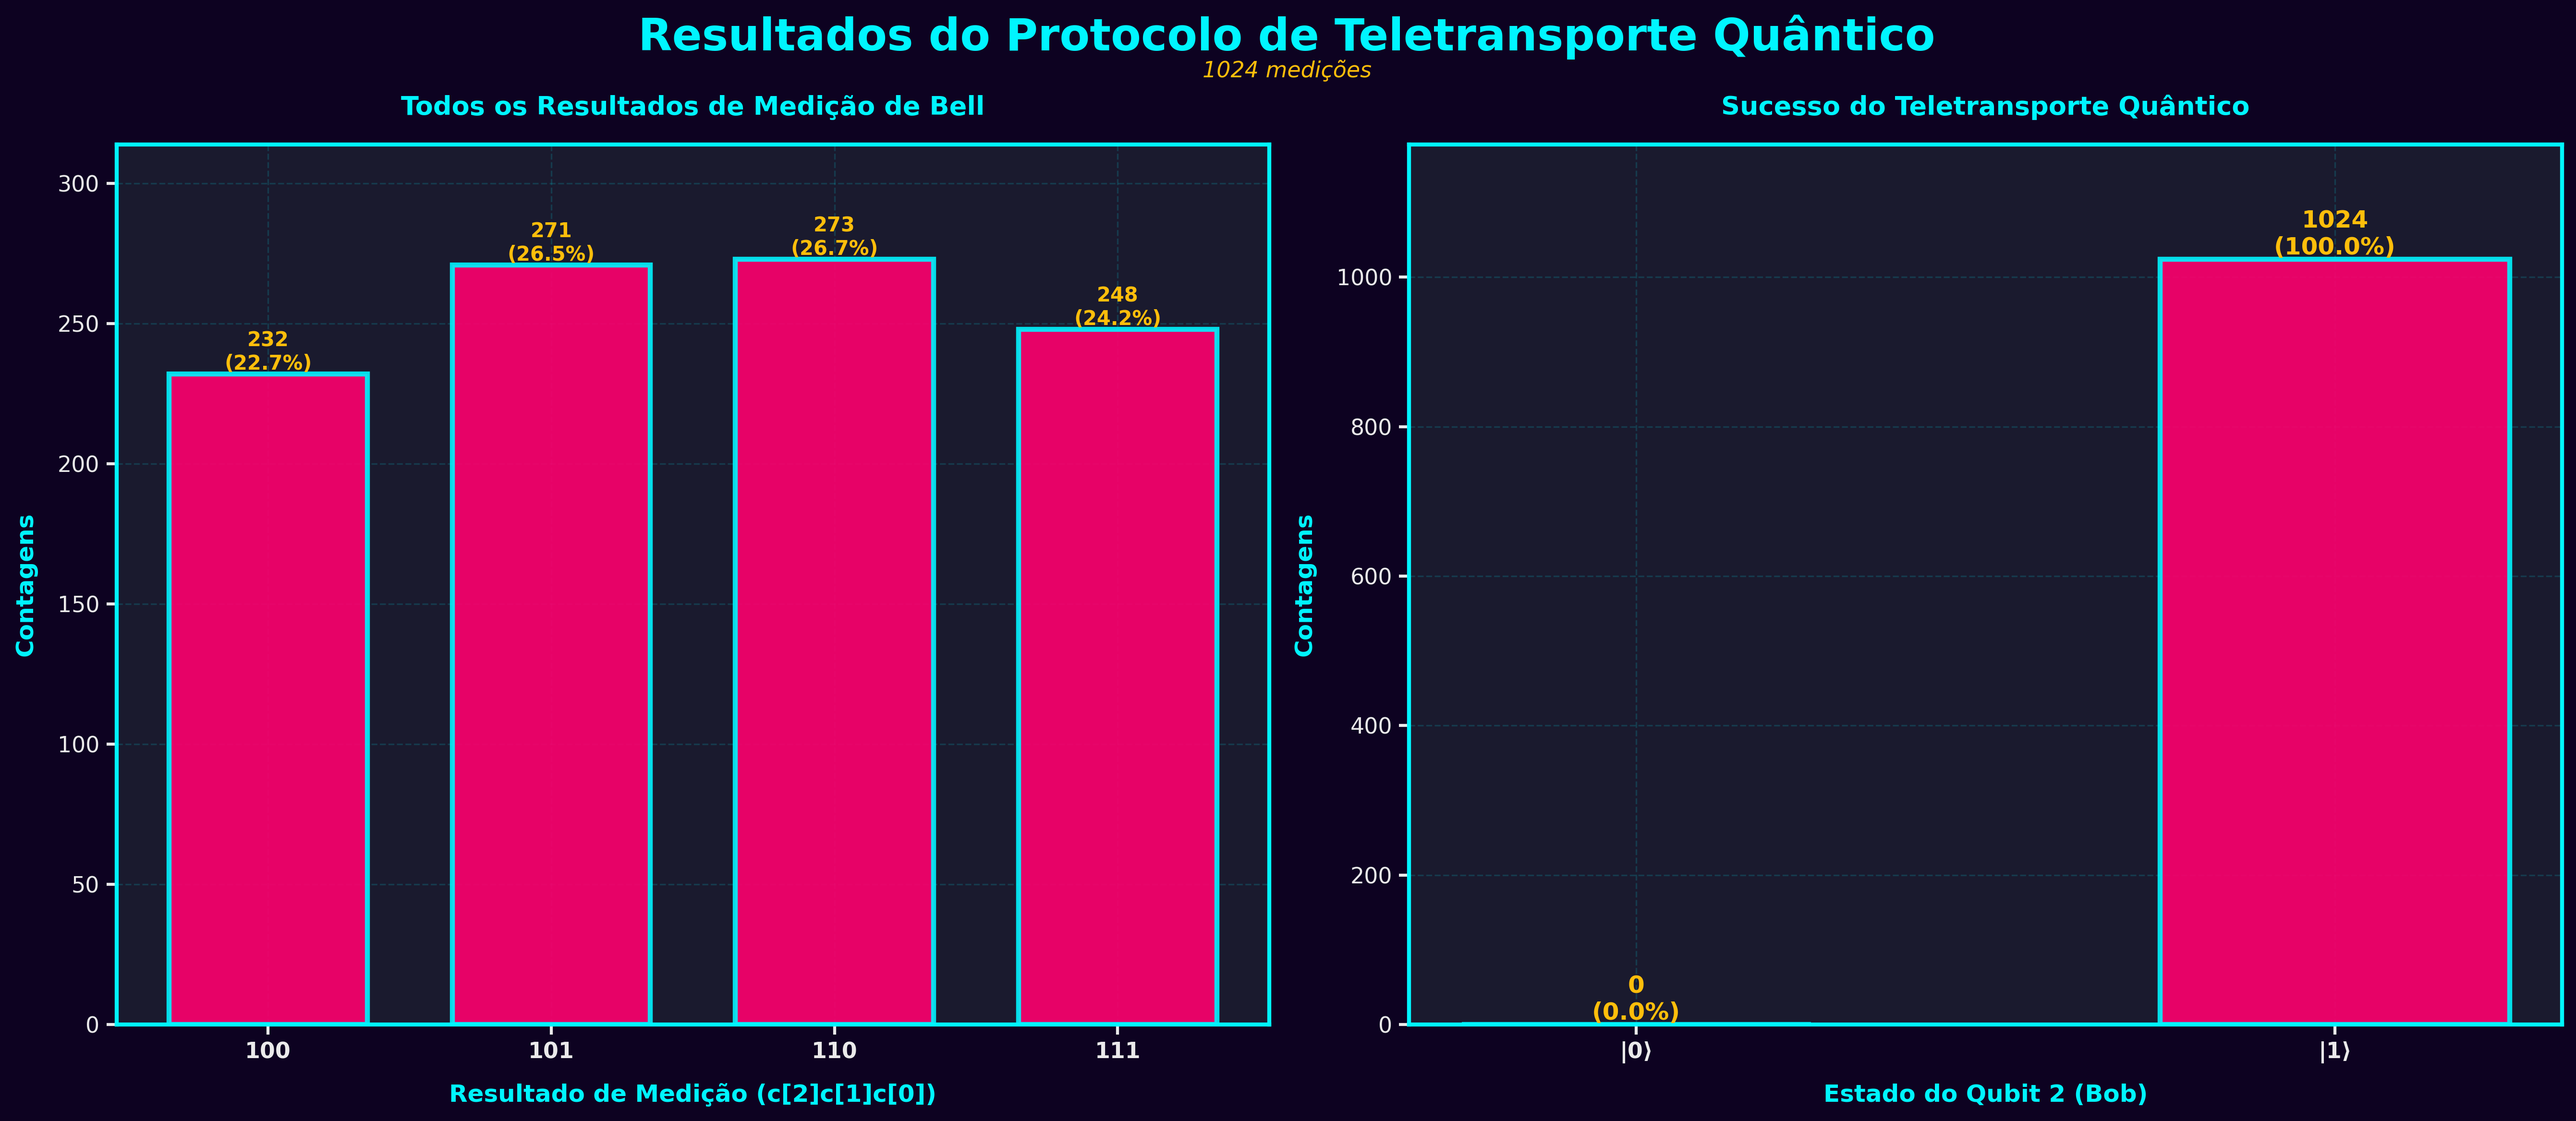
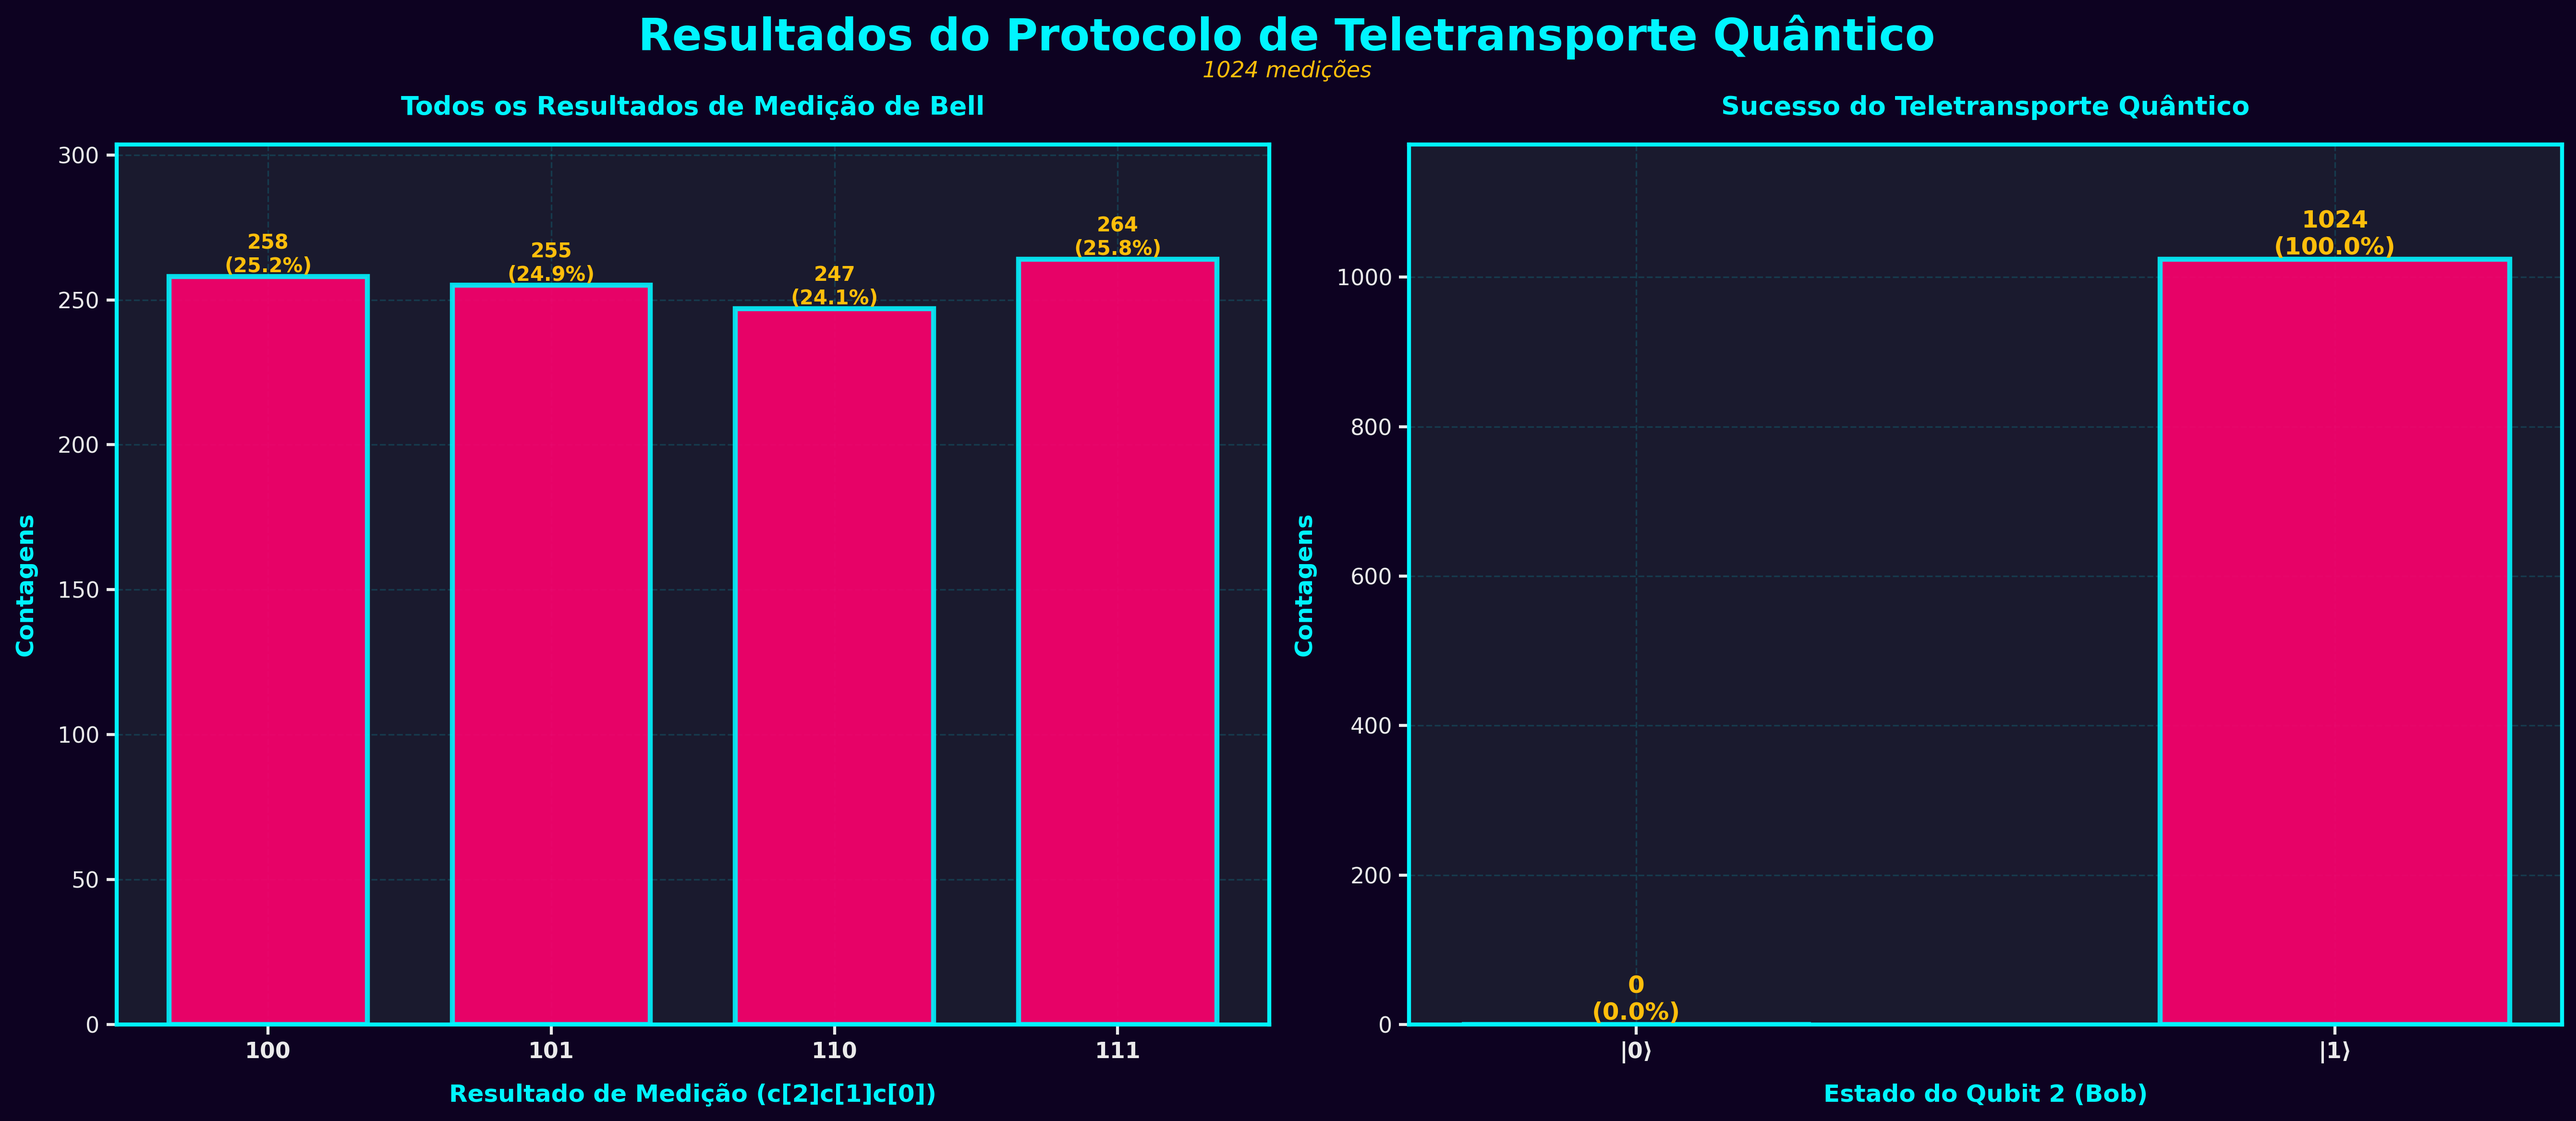
Ajusta textos dos gráficos para português e atualiza resultados

diff --git a/src/bell_states.py b/src/bell_states.py
@@ -150,11 +150,11 @@ def visualize_bell_states():
     gs = fig.add_gridspec(2, 2, hspace=0.35, wspace=0.3)
     
     # Main title
-    fig.text(0.5, 0.98, 'Bell States Measurement Results', 
+    fig.text(0.5, 0.98, 'Resultados das Medições dos Estados de Bell', 
              ha='center', va='top', fontsize=24, fontweight='bold',
              color=COLORS['highlight'])
     
-    fig.text(0.5, 0.94, '1024 measurement shots per state', 
+    fig.text(0.5, 0.94, '1024 medições por estado', 
              ha='center', va='top', fontsize=12,
              color=COLORS['secondary'], style='italic')
     
@@ -191,13 +191,13 @@ def visualize_bell_states():
                    color=COLORS['secondary'])
         
         # Styling
-        ax.set_xlabel('Measurement Outcome', fontsize=12, fontweight='bold',
+        ax.set_xlabel('Resultado da Medição', fontsize=12, fontweight='bold',
                      color=COLORS['highlight'], labelpad=10)
-        ax.set_ylabel('Counts', fontsize=12, fontweight='bold',
+        ax.set_ylabel('Contagens', fontsize=12, fontweight='bold',
                      color=COLORS['highlight'], labelpad=10)
         
         # Title with state information
-        ax.set_title(f'|{name}⟩ State\n{bell_states_info[name]}',
+        ax.set_title(f'Estado |{name}⟩\n{bell_states_info[name]}',
                     fontsize=13, fontweight='bold',
                     color=COLORS['highlight'], pad=15)
         
